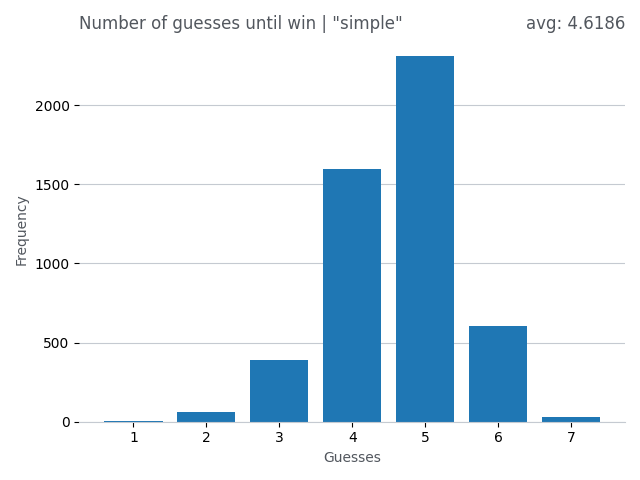
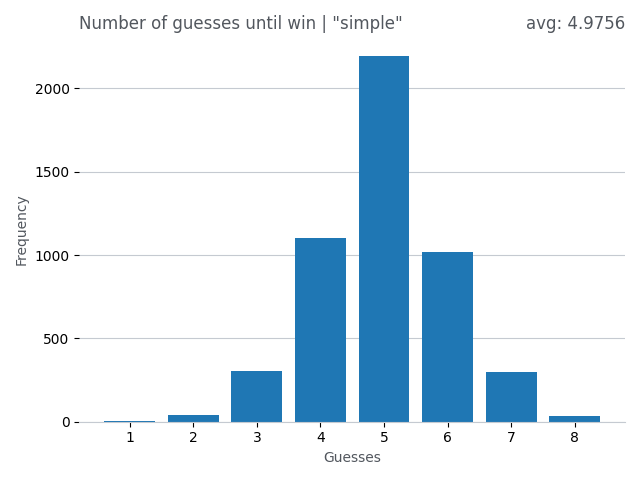
stopped the 'simple algorithm' from selecting randomly, like they do in the paper

diff --git a/mastermind.py b/mastermind.py
@@ -299,7 +299,7 @@ def computer_turn_simple(round_number):
     else:
         core_simple_algorithm(round_number)
 
-        return pick_random_guess()
+        return possible_combinations_mutable[0]
 
 
 def computer_turn_ahead(round_number):
